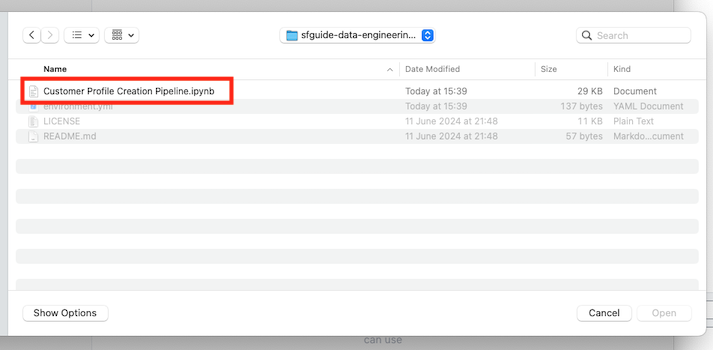
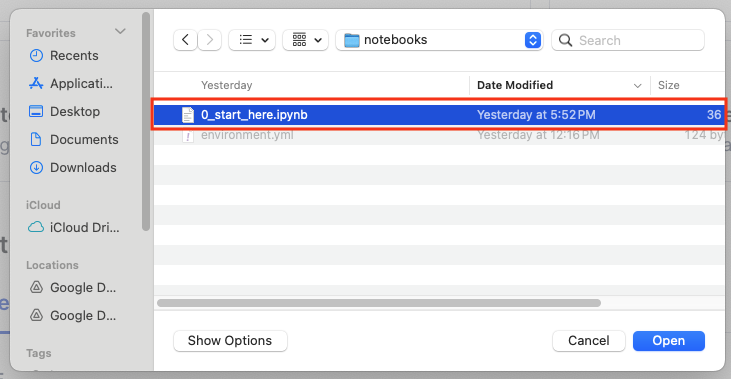
updated screenshots

diff --git a/site/sfguides/src/data_engineering_pipelines_with_snowpark_pandas/data_engineering_pipelines_with_snowpark_pandas.md b/site/sfguides/src/data_engineering_pipelines_with_snowpark_pandas/data_engineering_pipelines_with_snowpark_pandas.md
@@ -1,51 +1,55 @@
-author: Mats Stellwall, Doris Lee
+author: Mats Stellwall
 id: data_engineering_pipelines_with_snowpark_pandas
-summary: This guide will provide step-by-step details for building a data engineering pipeline with pandas on Snowflake.
+summary: This guide will provide step-by-step details for doing data engineering with Snowpark Pandas API
 categories: Getting-Started
 environments: web
 status: Published 
 feedback link: https://github.com/Snowflake-Labs/sfguides/issues
 tags: Getting Started, Data Science, Data Engineering 
 
-# Data Engineering Pipeline with pandas on Snowflake
+# Data Engineering Pipeline With Snowpark Pandas
 <!-- ------------------------ -->
 ## Overview 
 
-Through this quickstart, you will learn how to use [Snowflake Notebooks](https://docs.snowflake.com/user-guide/ui-snowsight/notebooks), [pandas on Snowflake](https://docs.snowflake.com/developer-guide/snowpark/python/snowpark-pandas), [Git integration](https://docs.snowflake.com/en/user-guide/ui-snowsight/notebooks-snowgit), and [Serverless Tasks](https://docs.snowflake.com/en/user-guide/tasks-intro) to build an end-to-end data engineering pipeline.
+Through this quickstart guide, you will learn how to use the Snowpark Pandas API to create a customer profile based on the using the [Snowflake Sample TPC-H dataset](https://docs.snowflake.com/en/user-guide/sample-data-tpch), save it into a Snowflake table and to create a serverless task to schedule the feature engineering.
 
-You will create a customer profile using the [Snowflake Sample TPC-H dataset](https://docs.snowflake.com/en/user-guide/sample-data-tpch), save it into a Snowflake table and to create a serverless task to schedule the feature engineering.
+### What Is Snowpark?
 
-![Architecture](https://developers.snowflake.com/wp-content/uploads/2024/07/snowpark-pandas.png)
+Snowpark is the set of libraries and code execution environments that run Python and other programming languages next to your data in Snowflake.
 
-### What You’ll Learn
+* **Client Side Libraries** - Snowpark libraries can be installed and downloaded from any client-side notebook or IDE and are used for code development and deployment. Libraries include the Snowpark Pandas API, which provides Python APIs to run your pandas code directly on your data in Snowflake.
+* **Code Execution Environments** - Snowpark provides elastic compute environments for secure execution of your code in Snowflake. Runtime options include Python, Java, and Scala in warehouses, container runtimes for out-of-the-box distributed processing with CPUs or GPUs using any Python framework, or custom runtimes brought in from Snowpark Container Services to execute any language of choice with CPU or GPU compute.
 
-- how to build a Python data pipeline with Snowflake Notebooks
-- how to aggregate and transform data to create new features with pandas on Snowflake
-- how to version control and collaborate with Git integration
-- how to create a Serverless Task to schedule the feature engineering
+Learn more about [Snowpark](http://www.snowflake.com/snowpark).
 
-### What is pandas on Snowflake?
+### What Is Snowpark Pandas API?
+The Snowpark pandas API is a module in the Snowpark library that lets you run your pandas code directly on your data in Snowflake. Just by changing the import statement and a few lines of code, you can get the same pandas-native experience you know and love with the scalability and security benefits of Snowflake. With this API, you can work with much larger datasets so you can avoid the time and expense of porting your pandas pipelines to other big data frameworks or using larger and more expensive machines. It runs workloads natively in Snowflake through translation to SQL, enabling it to take advantage of parallelization and the data governance and security benefits of Snowflake.
 
-pandas on Snowflake lets you run your pandas code in a distributed manner scalably and securely directly on your data in Snowflake. Just by changing the import statement and a few lines of code, you can get the same pandas-native experience you know and love with the scalability and security benefits of Snowflake. With pandas on Snowflake this API, you can work with much larger datasets and avoid the time and expense of porting your pandas pipelines to other big data frameworks or provisioning large and expensive machines. It runs workloads natively in Snowflake through transpilation to SQL, enabling it to take advantage of parallelization and the data governance and security benefits of Snowflake. 
-
-### Why use pandas on Snowflake?
-pandas is the go-to data processing library for millions worldwide, including countless Snowflake users. However, pandas was never built to handle data at the scale organizations are operating today. Running pandas code requires transferring and loading all of the data into a single in-memory process. It becomes unwieldy on moderate-to-large data sets and breaks down completely on data sets that grow beyond what a single node can handle. With pandas on Snowflake, you can run the same pandas code, but with all the pandas processing pushed down to run in a distributed fashion in Snowflake. Your data never leaves Snowflake, and your pandas workflows can process much more efficiently using the Snowflake elastic engine. This brings the power of Snowflake to pandas developers everywhere.
-
-pandas on Snowflake is delivered through the Snowpark pandas API as part of the Snowpark Python library, which enables scalable data processing of Python code within the Snowflake platform. You will learn how to use Snowpark pandas as part of this quickstart. This quickstart will focus on getting started with Snowpark pandas API, and enable you to perform common pandas operations on large volumes of data while leveraging the power of Snowflake.
+#### Benefits Of Using The Snowpark Pandas API
+* **Meeting Python developers where they are** – This API offers a familiar interface to Python developers by providing a pandas-compatible layer that can run natively in Snowflake.
+* **Scalable distributed pandas** – This API bridges the convenience of pandas with the scalability of mature data infrastructure. pandas can now run at Snowflake speed and scale by leveraging pre-existing query optimization techniques within Snowflake. No code rewrites or complex tuning are required, so you can move from prototype to production seamlessly.
+* **Security and governance** – Data does not leave Snowflake’s secure platform. The Snowpark pandas API allows uniformity within data organizations on how data is accessed and allows for easier auditing and governance.
+* **No additional compute infrastructure to manage and tune** – This feature leverages the Snowflake engine, and you do not need to set up or manage any additional compute infrastructure.
 
 Learn more about [Snowpark Pandas API](https://docs.snowflake.com/en/developer-guide/snowpark/python/snowpark-pandas).
 
+### What You’ll Learn
+* how to create Snowpark Pandas dataframe from a Snowflake table
+* how to aggregate data to create new features
+* how to Join Snowpark Pandas dataframes
+* how to save a Snowpark Pandas dataframe into a Snowflake table
+* how to create a serverless task to schedule the feature engineering
 
 ### Prerequisites
 * [Git](https://git-scm.com/book/en/v2/Getting-Started-Installing-Git) installed
     > aside positive
     >
-    >Clone or download the [git repo](https://github.com/Snowflake-Labs/sfguide-data-engineering-pipelines-with-pandas-on-snowflake)
+    >Clone or download the [git repo](https://github.com/Snowflake-Labs/sfguide-data-engineering-pipelines-with-snowpark-pandas)
 * A Snowflake account. If you do not have a Snowflake account, you can register for a [free trial account](https://signup.snowflake.com/).
 * A Snowflake account login with a role that has the ability to create database, schema and tables. If not, you will need to register for a free trial or use a different role.
 
 ### What You’ll Build 
-A Customer profile table using the Snowpark Pandas API and a serverless task that will run the feature engineering pipeline on a schedule.
+A Customer profile table using the Snowpark Pandas API and a serverless task that will run the feature engineering on a schedule.
 
 <!-- ------------------------ -->
 ## Setup The Snowflake Environment
@@ -55,21 +59,21 @@ Duration: 10
 This section covers cloning of the GitHub repository and creating the needed Snowflake objects (i.e role, warehouse, database, schema, etc..)
 
 ### Clone The Git Repository
-The very first step is to clone the [GitHub repository](https://github.com/Snowflake-Labs/sfguide-data-engineering-pipelines-with-pandas-on-snowflake). This repository contains all the code you will need to successfully complete this QuickStart Guide.
+The very first step is to clone the [GitHub repository](https://github.com/Snowflake-Labs/sfguide-data-engineering-pipelines-with-snowpark-pandas). This repository contains all the code you will need to successfully complete this QuickStart Guide.
 
 Using HTTPS:
 
 ```shell
-git clone https://github.com/Snowflake-Labs/sfguide-data-engineering-pipelines-with-pandas-on-snowflake.git
+git clone https://github.com/Snowflake-Labs/sfguide-data-engineering-pipelines-with-snowpark-pandas.git
 ```
 
 OR, using SSH:
 
 ```shell
-git clone git@github.com:Snowflake-Labs/sfguide-data-engineering-pipelines-with-pandas-on-snowflake.git
+git clone git@github.com:Snowflake-Labs/sfguide-data-engineering-pipelines-with-snowpark-pandas.git
 ```
 
-You can also use the Git integration feature of Snowflake Notebooks, in order to do that you need to fork the [GitHub repository](https://github.com/Snowflake-Labs/sfguide-data-engineering-pipelines-with-pandas-on-snowflake) to be allowed to commit changes. For instructions how to set up Git integration for your Snowflake account see [here](https://docs.snowflake.com/developer-guide/git/git-setting-up) and for using it with Snowflake Notebooks see [this page](https://docs.snowflake.com/en/user-guide/ui-snowsight/notebooks-snowgit). You can refer to [this video](https://www.youtube.com/watch?v=4GOa1eUccmQ) for a walkthrough on how you can set up Git integration and use it with Snowflake Notebooks.
+You can also use the Git integration feature of Snowflake Notebooks, in order to do that you need to fork the [GitHub repository](https://github.com/Snowflake-Labs/sfguide-data-engineering-pipelines-with-snowpark-pandas) to be allowed to commit changes. For instructions how to set up Git integration for your Snowflake account see [here](https://docs.snowflake.com/developer-guide/git/git-setting-up) and for using it with Snowflake Notebooks see [this page](https://docs.snowflake.com/en/user-guide/ui-snowsight/notebooks-snowgit).
 
 <!-- ------------------------ -->
 ## Setup Snowflake
@@ -82,7 +86,7 @@ During this step you will verify that the [Snowflake Sample TPC-H dataset](https
 
 1. Log into [Snowsight](https://docs.snowflake.com/en/user-guide/ui-snowsight.html#) for your account
 2. Navigate to **Databases**
-3. Verify that you can see the **SNOWFLAKE_SAMPLE_DATA** database, if it is missing then you can add it folling the instructions [here](https://docs.snowflake.com/en/user-guide/sample-data-using).
+3. Verify that you can see the **SNOWFLAKE_SAMPLE_DATA** database, if it is missing then you can add it folling the instructions in https://docs.snowflake.com/en/user-guide/sample-data-using
 
 ### Create Database, Schema And Warehouse To Be Used
 
@@ -100,31 +104,26 @@ CREATE WAREHOUSE SNOW_PANDAS_DE_QS_WH;
 ### Navigate To Snowflake Notebooks
 
 1. Navigate to the Notebooks section by clicking **Projects** and then **Notebooks**  
-
-    ![Navigate to Notebooks](assets/navigate_to_notebooks.png)  
+![Navigate to Notebooks](assets/navigate_to_notebooks.png)  
 2. Click on the **down arrow* next to **+ Notebook**  
-
-    ![New notebook drop down](assets/new_notebook_dropdown.png)  
-3. If you have set up git integration choose  **Create from repository**. If not, then choose **import .ipynb file**.
-
-    ![New notebook from menu](assets/notebook_from_menu.png)  
+![New notebook drop down](assets/new_notebook_dropdown.png)  
+3. If you have set up git integration choose  **Create from repository** if not, then choose **import .ipynb file**.
+![New notebook from menu](assets/notebook_from_menu.png)  
 
 ### Import .ipynb File
-1. Navigate to where you have cloned the [GitHub repository](https://github.com/Snowflake-Labs/sfguide-data-engineering-pipelines-with-pandas-on-snowflake) and select **Customer Profile Creation Pipeline.ipynb** and click **Open**  
+1. Navigate to where you have cloned the [GitHub repository](https://github.com/Snowflake-Labs/sfguide-data-engineering-pipelines-with-snowpark-pandas) and select **Customer Profile Creation Pipeline.ipynb** and click **Open**  
 ![Select Notebook File](assets/select_notebook_file.png)  
-2. Keep the name, select **SNOW_PANDAS_DE_QS** and **NOTEBOOKS** for **Notebook location**, **SNOW_PANDAS_DE_QS_WH** for **Notebook warehouse** and click **Create**  
+2. Give the notebook a name, then select **SNOW_PANDAS_DE_QS** and **NOTEBOOKS** for **Notebook location**, **SNOW_PANDAS_DE_QS_WH** for **Notebook warehouse** and click **Create**  
 ![Select Notebook File](assets/notebook_dialog.png)  
 
 ### Create From Repository
 
-If you have forked the [GitHub repository](https://github.com/Snowflake-Labs/sfguide-data-engineering-pipelines-with-pandas-on-snowflake) and create a integration to it in Snowflake you can open the notebook directly from the git repository.
+If you have forked the [GitHub repository](https://github.com/Snowflake-Labs/sfguide-data-engineering-pipelines-with-snowpark-pandas) and create a Git integration to it in Snowflake you can open the notebook directly from the repository. See [here](https://docs.snowflake.com/en/developer-guide/git/git-overview) for instructions on how to set up Git integration.
 
-1. In the **Create Notebook from Repository** dialog click on **Select .ipynb file**  
+1. In the **Create Notebook from Repository** dialog, click on **Select .ipynb file**  
 ![Create Notebook from Repository Dialog](assets/create_from_rep_start.png)  
-2 Click on the repository integration you are using and select **Customer Profile Creation Pipeline.ipynb** and click **Select File**, if you do not see the file press **Fetch** to refresh with the latest changes from the repository  
-![Select Notebook File from Repository](assets/select_file_from_rep.png)  
-3. Name it **Customer Profile Creation Pipeline**, select **SNOW_PANDAS_DE_QS**, **NOTEBOOKS** for **Notebook location** and **SNOW_PANDAS_DE_QS_WH** for **Notebook warehouse** and click **Create**  
-![Create Notebook from Repository Dialog](assets/create_from_rep_end.png)  
+2. In the **Select file from Git Repository** dialog, click on the repository integration you are using and select the notebook file and click **Select File**, if you do not see the file press **Fetch** to refresh with the latest changes from the repository  
+3. Back to the **Create Notebook from Repository** dialog, give the notebook a name, then select **SNOW_PANDAS_DE_QS**, **NOTEBOOKS** for **Notebook location** and **SNOW_PANDAS_DE_QS_WH** for **Notebook warehouse** and click **Create**  
 
 ### Add Required Python Libraries
 
@@ -142,35 +141,36 @@ Before you run the notebook you need to add the following Python libraries:
 
 
 <!-- ------------------------ -->
-## Data Engineering with pandas on Snowflake
+## Data Engineering With Snowpark Pandas
 Duration: 30
 
-During this step you will learn how to use pandas on Snowflake to:
+During this step you will learn how to use the Snowpark Pandas API to:
 * Create datframe from a Snowflake table
 * Aggregate data to create new features
 * Join dataframes
 * Save the result into a Snowflake table
 * Create a serverless task to schedule the feature engineering pipeline (Currently in Private Preview)
 
-Follow along and run each of the cells in [the Notebook](https://github.com/Snowflake-Labs/sfguide-data-engineering-pipelines-with-pandas-on-snowflake/blob/main/notebooks/0_start_here.ipynb).
+Follow along and run each of the cells in [the Notebook](https://github.com/Snowflake-Labs/sfguide-data-engineering-pipelines-with-snowpark-pandas/blob/main/Customer%20Profile%20Creation%20Pipeline.ipynb).
 
-Within this Notebook, we will use Snowpark Pandas API to create DataFrames, join them, create new features and create a serverless task to schedule the feature engineering pipeline.
+Within this Notebook, we will use Snowpark Pandas API to create DataFrames, join them, create new features and create a serverless task to schedule the feature engineering.
 
 <!-- ------------------------ -->
 ## Conclusion And Resources
 Duration: 4
 
-Congratulations, you have successfully completed this quickstart! Through this quickstart, we were able to showcase how you can use [Snowflake Notebooks](https://docs.snowflake.com/user-guide/ui-snowsight/notebooks), [pandas on Snowflake](https://docs.snowflake.com/developer-guide/snowpark/python/snowpark-pandas), [Git integration](https://docs.snowflake.com/en/user-guide/ui-snowsight/notebooks-snowgit), and [Serverless Tasks](https://docs.snowflake.com/en/user-guide/tasks-intro) to build an end-to-end data engineering pipeline.
+Congratulations, you have successfully completed this quickstart! Through this quickstart, we were able to showcase how you can use the Snowpark Pandas API to create DataFrames, join them, create new features, save the result to a Snowflake table, and create a serverless task to schedule the data transformation pipeline.
 
 ### What You Learned
 
-- how to build a Python data pipeline with Snowflake Notebooks
-- how to aggregate and transform data to create new features with pandas on Snowflake
-- how to version control and collaborate with Git integration
-- how to create a Serverless Task to schedule the feature engineering
+* Create datframe from a Snowflake table
+* Aggregate data to create new features
+* Join dataframes
+* Save the result into a Snowflake table
+* Create a serverless task to schedule the feature engineering
 
 ### Related Resources
 
-* [Source Code on GitHub](https://github.com/Snowflake-Labs/sfguide-data-engineering-pipelines-with-pandas-on-snowflake)
-* [pandas on Snowflake Developer Guide](https://docs.snowflake.com/en/developer-guide/snowpark/python/snowpark-pandas)
-* [Getting Started with pandas on Snowflake Quickstart](https://quickstarts.snowflake.com/guide/getting_started_with_pandas_on_snowflake/)
+* [Source Code on GitHub](https://github.com/Snowflake-Labs/sfguide-data-engineering-pipelines-with-snowpark-pandas)
+* [Snowpark Pandas API Developer Guide](https://docs.snowflake.com/en/developer-guide/snowpark/python/snowpark-pandas)
+* [Getting Started with Snowpark pandas Quickstart](https://quickstarts.snowflake.com/guide/getting_started_with_snowpark_pandas/index.html)
